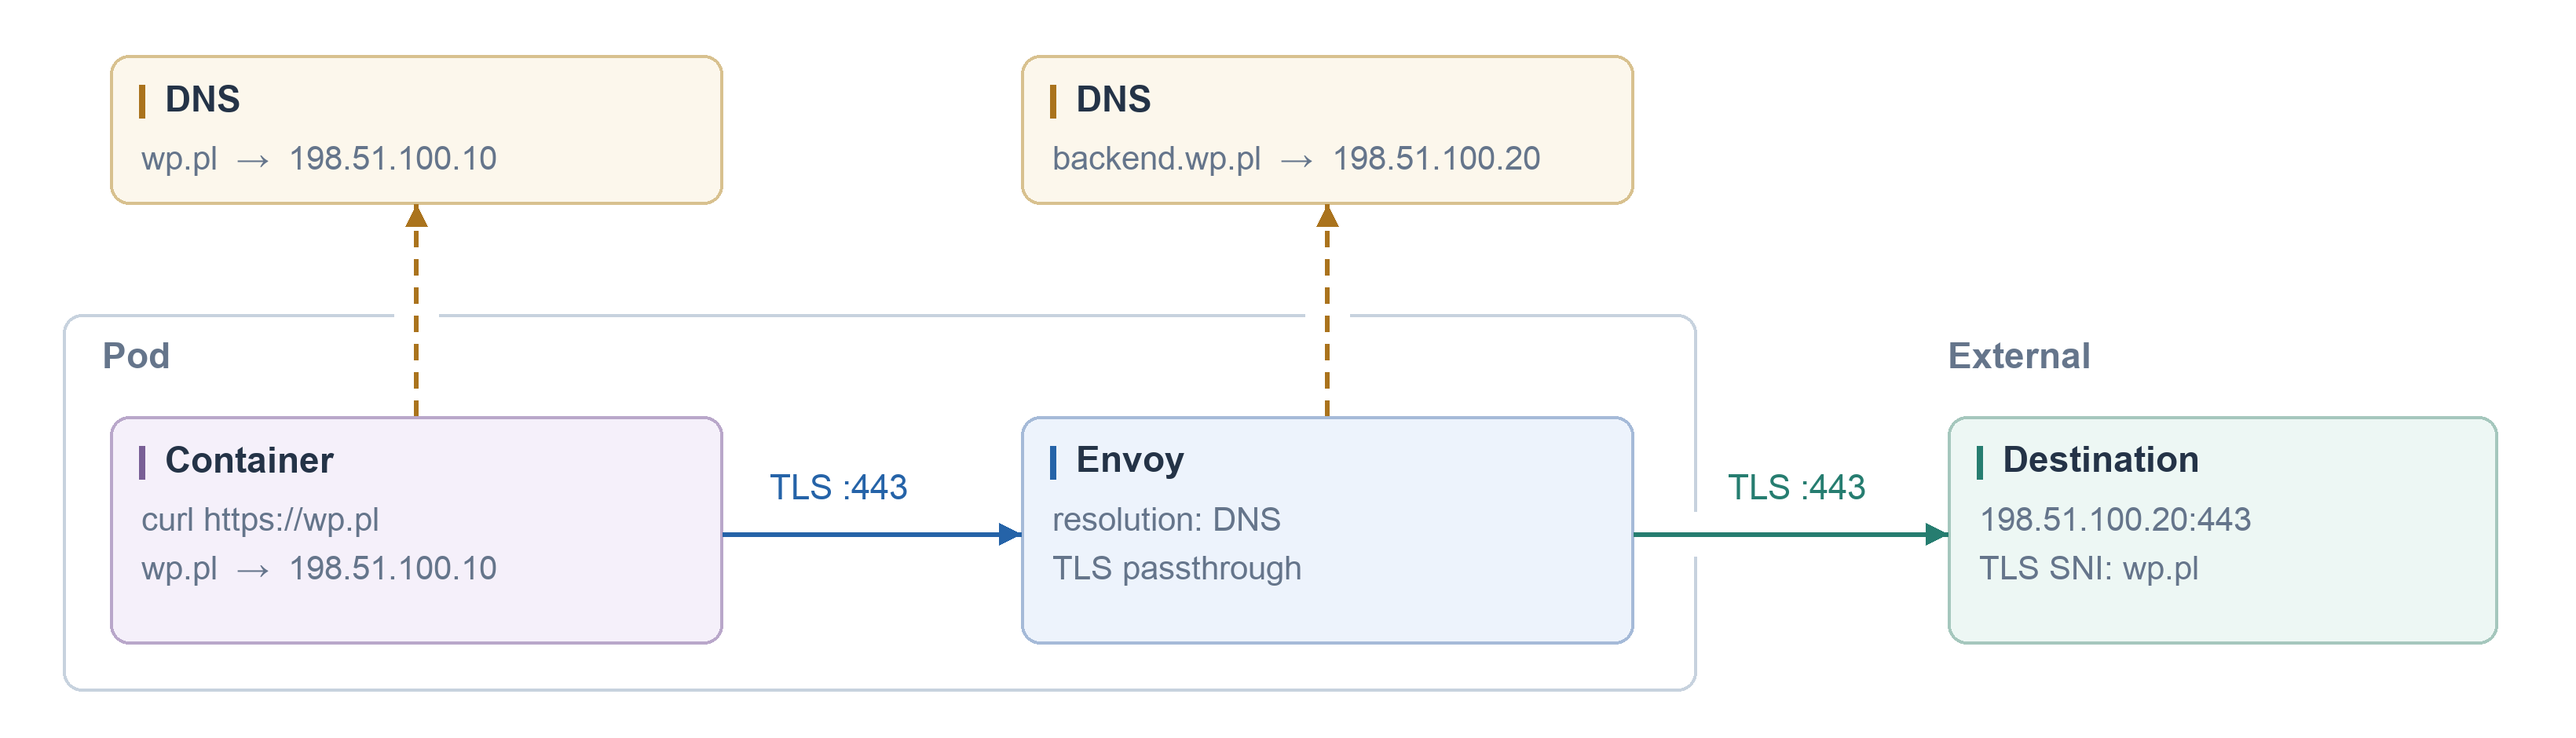
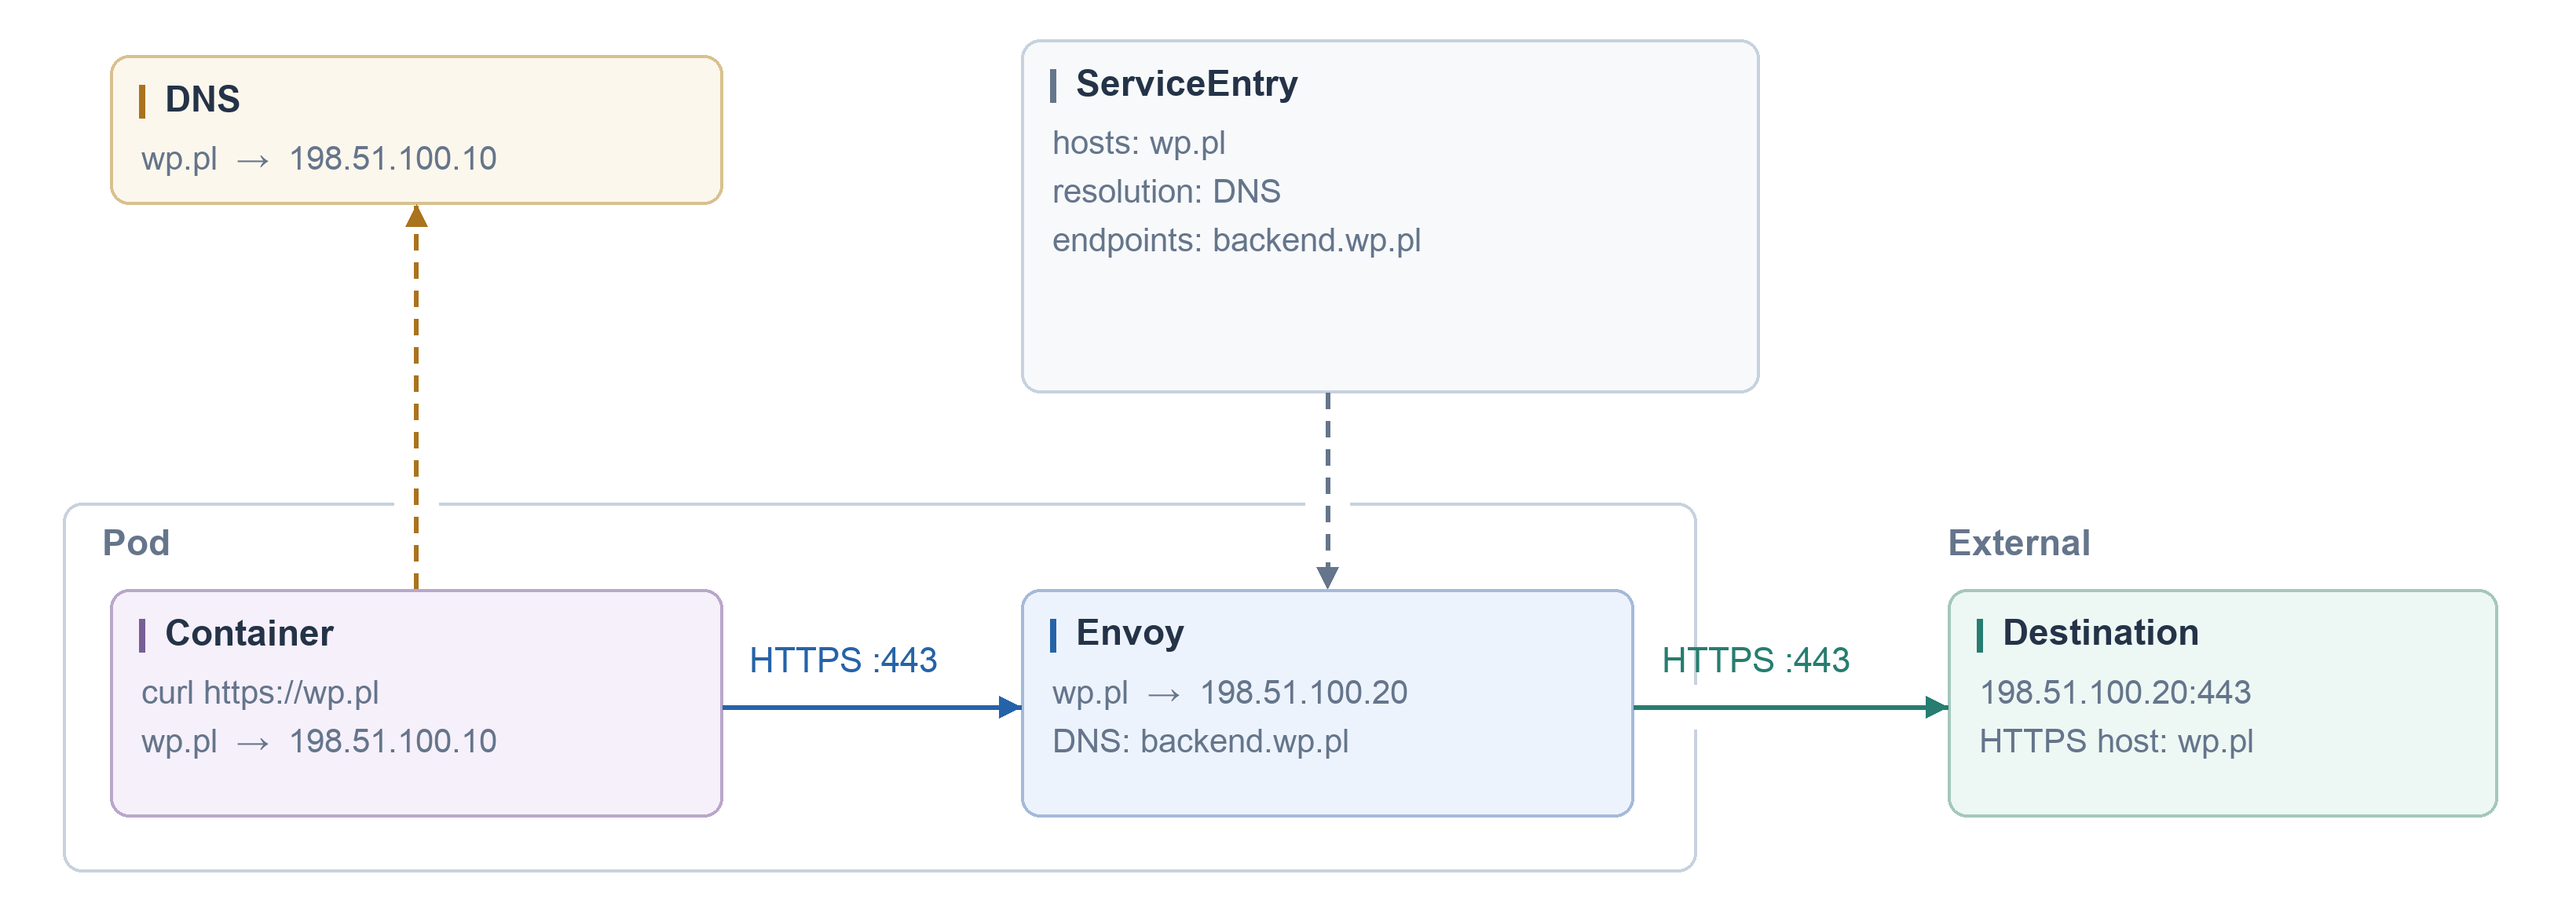
Show ServiceEntry inputs above Envoy and effective HTTP routing

diff --git a/scripts/render_service_entry.py b/scripts/render_service_entry.py
@@ -14,7 +14,7 @@ import yaml
 
 ROOT = Path(__file__).resolve().parents[1]
 SCALE = 2
-SIZE = (1640, 470)
+SIZE = (1640, 580)
 # Illustrative DNS answers from RFC 5737; never query live endpoints when rendering.
 DNS_ANSWERS = {"wp.pl": "198.51.100.10", "backend.wp.pl": "198.51.100.20"}
 INK, MUTED, BORDER = "#243347", "#65758b", "#c7d2de"
@@ -123,37 +123,42 @@ def render(example: Example, resources: list[dict]) -> Image.Image:
 
     c.card(70, 35, 390, 95, "DNS",
            [f"{host}  →  {app_ip}"], "dns")
-    if mode == "DNS":
-        c.card(650, 35, 390, 95, "DNS",
-               [f"{endpoint}  →  {proxy_ip}"], "dns")
-    else:
-        c.card(650, 35, 390, 95, "addresses" if original else "endpoints",
-               [", ".join(entry["addresses"]) if original else endpoint], "neutral")
+    settings = [f"hosts: {host}", f"resolution: {mode}"]
+    if original:
+        settings.append("addresses: " + ", ".join(entry["addresses"]))
+    elif "endpoints" in entry:
+        settings.append(f"endpoints: {endpoint}")
+    if origination:
+        settings.extend([f"port: {port['number']} → targetPort: {upstream_port}",
+                         "DestinationRule: tls.mode = SIMPLE"])
+    c.card(650, 25, 470, 225, "ServiceEntry", settings, "neutral")
 
-    c.box(40, 200, 1040, 240, "white", BORDER)
+    c.box(40, 320, 1040, 235, "white", BORDER)
     for x in (265, 845):
-        c.line([(x - 14, 200), (x + 14, 200)], "white", width=6)
-    c.line([(1080, 326), (1080, 354)], "white", width=6)
-    c.text(65, 218, "Pod", 23, MUTED, True)
-    c.text(1240, 218, "External", 23, MUTED, True)
-    c.arrow([(265, 265), (265, 130)], AMBER, True)
-    c.arrow([(845, 265), (845, 130)] if mode == "DNS" else [(845, 130), (845, 265)],
-            AMBER if mode == "DNS" else MUTED, True)
+        c.line([(x - 14, 320), (x + 14, 320)], "white", width=6)
+    c.line([(1080, 436), (1080, 464)], "white", width=6)
+    c.text(65, 337, "Pod", 23, MUTED, True)
+    c.text(1240, 337, "External", 23, MUTED, True)
+    c.arrow([(265, 375), (265, 130)], AMBER, True)
+    c.arrow([(845, 250), (845, 375)], MUTED, True)
 
-    c.card(70, 265, 390, 145, "Container",
+    c.card(70, 375, 390, 145, "Container",
            [f"curl {'http' if origination else 'https'}://{host}",
             f"{host}  →  {app_ip}"], "app")
-    proxy_lines = (["ServiceEntry: no IP match", "ALLOW_ANY: passthrough"] if original
-                   else [f"targetPort: {upstream_port}" if origination else f"resolution: {mode}",
-                         "TLS: SIMPLE" if origination else "TLS passthrough"])
-    c.card(650, 265, 390, 145, "Envoy",
-           proxy_lines, "proxy")
-    c.card(1240, 265, 350, 145, "Destination",
-           [f"{proxy_ip}:{upstream_port}", f"TLS SNI: {host}"], "target")
-    c.arrow([(460, 340), (650, 340)])
-    c.text(490, 302, f"{'HTTP' if origination else 'TLS'} :{port['number']}", 22, BLUE)
-    c.arrow([(1040, 340), (1240, 340)], GREEN)
-    c.text(1100, 302, f"TLS :{upstream_port}", 22, GREEN)
+    proxy_lines = [f"{host}  →  {proxy_ip}"]
+    if original:
+        proxy_lines.append("No IP match → ALLOW_ANY")
+    elif origination:
+        proxy_lines.append("HTTP :80 → HTTPS :4433")
+    elif mode == "DNS":
+        proxy_lines.append(f"DNS: {endpoint}")
+    c.card(650, 375, 390, 145, "Envoy", proxy_lines, "proxy")
+    c.card(1240, 375, 350, 145, "Destination",
+           [f"{proxy_ip}:{upstream_port}", f"HTTPS host: {host}"], "target")
+    c.arrow([(460, 450), (650, 450)])
+    c.text(477, 412, f"{'HTTP' if origination else 'HTTPS'} :{port['number']}", 22, BLUE)
+    c.arrow([(1040, 450), (1240, 450)], GREEN)
+    c.text(1058, 412, f"HTTPS :{upstream_port}", 22, GREEN)
     return c.image
 
 

diff --git a/AGENTS.md b/AGENTS.md
@@ -2,6 +2,6 @@
 
 This repository contains small, independent Istio training examples. Follow the sibling istio-setup documentation style: README.md is a links-only index; topic pages start directly with short preparation/example headings. Use English for descriptions and diagrams. ServiceEntry variants are alternatives for the same host, not a combined installation. Preserve the current branch and unrelated changes; commit/push only when requested.
 
-service-entry/*.yaml are the canonical copyable manifests. README.service-entry.md contains only example headings, YAML blocks and PNGs from images/service-entry/. scripts/render_service_entry.py renders the five diagrams and regenerates the topic page from these manifests. Each Pod shows a Container running plain curl http://wp.pl or curl https://wp.pl, its resolved IP, Envoy and the upstream socket. Resolver labels must be just DNS. Do not add footers, explanatory paragraphs, callout cards, legends or repeated titles. The offline Pillow/PyYAML renderer uses illustrative RFC 5737 DNS answers: wp.pl = 198.51.100.10 and backend.wp.pl = 198.51.100.20; these are not real DNS measurements. Assume sidecar mode with DNS capture disabled. For NONE, plain curl receives the DNS IP, which does not match the supplied addresses; show the explicitly labeled ALLOW_ANY passthrough case, never fabricate DNS rewriting or use --resolve. STATIC selects the configured destination, and TLS origination uses targetPort to change ports.
+service-entry/*.yaml are the canonical copyable manifests. README.service-entry.md contains only example headings, YAML blocks and PNGs from images/service-entry/. scripts/render_service_entry.py renders the five diagrams and regenerates the topic page from these manifests. Each Pod shows a Container running plain curl http://wp.pl or curl https://wp.pl, its resolved IP, Envoy and the upstream socket. Above Envoy, a ServiceEntry block lists only relevant inputs (hosts, resolution, addresses/endpoints or port translation); Envoy shows the effective host-to-IP mapping instead of endpoints/configuration fields. Traffic arrows use HTTP/HTTPS, including HTTP-to-HTTPS origination; TLS remains only in actual configuration field names. Resolver labels must be just DNS. Do not add footers, explanatory paragraphs, callout cards, legends or repeated titles. The offline Pillow/PyYAML renderer uses illustrative RFC 5737 DNS answers: wp.pl = 198.51.100.10 and backend.wp.pl = 198.51.100.20; these are not real DNS measurements. Assume sidecar mode with DNS capture disabled. For NONE, plain curl receives the DNS IP, which does not match the supplied addresses; show the explicitly labeled ALLOW_ANY passthrough case, never fabricate DNS rewriting or use --resolve. STATIC selects the configured destination, and TLS origination uses targetPort to change ports.
 
 Regenerate with python3 scripts/render_service_entry.py using an existing Python environment with Pillow and PyYAML; do not install dependencies without authorization. PNG output is reproducible with the same Pillow and fonts (Arial on macOS, DejaVu Sans fallback on Linux); --check compares generated Markdown and image pixels without writing files. Review every rendered image, parse the YAML, validate against locally available Istio schemas when possible, and review Git diff/status before committing. Do not apply manifests, start services, or contact example endpoints during verification. The documentation describes intended routing, not a verified live environment.
